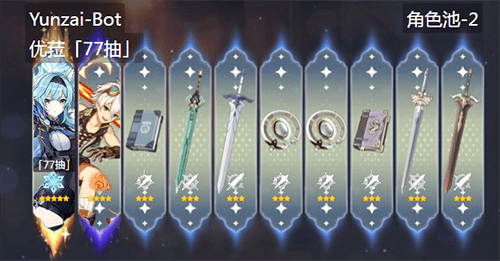
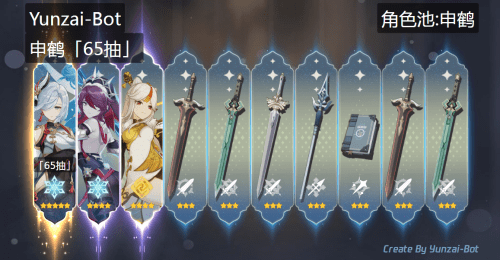
十连样式修改，更加真实

diff --git a/resources/genshin/gacha/gacha.css b/resources/genshin/gacha/gacha.css
@@ -1,5 +1,5 @@
 @font-face {
-  font-family: "tttgbnumber";
+  font-family: 'tttgbnumber';
   src: url("../../font/tttgbnumber.ttf");
   font-weight: normal;
   font-style: normal;
@@ -7,168 +7,131 @@
 * {
   margin: 0;
   padding: 0;
+  box-sizing: border-box;
+  user-select: none;
 }
 
 body {
-  position: absolute;
   transform: scale(0.9);
   transform-origin: 0 0;
-}
-
-.background {
   position: absolute;
 }
+
 .container {
   width: 1286px;
   height: 670px;
   background-image: url(./items/background.jpg);
   background-size: 100% 100%;
+  overflow: hidden;
 }
-.bg-info {
-  position: fixed;
-  top: 8px;
-  left: 65px;
+.info-bg{
+  background-color: rgba(5, 5, 5, 0.6);
   font-size: 46px;
   color: rgb(255, 255, 255);
-  z-index: 9999;
-  background-color: rgba(5, 5, 5, 0.6);
   padding: 8px 10px;
   border-radius: 5px;
-  max-width: 400px;
+
+}
+.info-name{
   overflow: hidden;
   white-space: nowrap;
   text-overflow: ellipsis;
+  max-width: 400px;
+  position: fixed;
+  top: 8px;
+  left: 65px;
+  z-index: 9999;
 }
-.bg-info-more {
+.info-count{
   position: fixed;
   top: 85px;
   left: 65px;
-  font-size: 46px;
-  color: rgb(255, 255, 255);
   z-index: 9999;
-  background-color: rgba(5, 5, 5, 0.6);
-  padding: 8px 10px;
-  border-radius: 5px;
 }
-.bg-upType {
+.poor-info{
   position: fixed;
   top: 8px;
   right: 55px;
-  font-size: 46px;
-  color: rgb(255, 255, 255);
   z-index: 9999;
-  background-color: rgba(5, 5, 5, 0.6);
-  padding: 8px 10px;
-  border-radius: 5px;
 }
-.gacha {
+.list-box{
   display: flex;
+  padding-top: 130px;
+  padding-left: 85px;
 }
-.gacha-box {
+.list-box .item{
   position: relative;
-  top: 24px;
 }
-
-.gacha-box:first-child {
-  margin-left: 80px;
-}
-
-.element .star-background {
-  position: relative;
+.list-box .item .item-bg-box{
   width: 112px;
-  z-index: 80;
+  height: 450px;
 }
-
-.element .star-image {
-  display: flex;
-  position: relative;
-  z-index: 1;
-  width: 82px;
-  left: 15px;
-  top: -175px;
-  z-index: 101;
-}
-
-.element .weapon-image {
+.list-box .item .item-bg{
   position: absolute;
-  width: 112px;
-  top: 150px;
-  z-index: 101;
-  filter: drop-shadow(4px 10px 0px #333);
-}
-.element .weapon-image-4 {
-  top: 48px;
-}
-.element .weapon-image-shadow {
-  position: relative;
-  width: 112px;
-  top: -553px;
-  left: 3px;
-  filter: brightness(0%);
-  opacity: 0.72;
+  width: 100%;
   z-index: 100;
 }
-
-.type-image {
+.list-box .item .item-shadow{
   position: absolute;
-  width: 65px;
-  left: 23px;
-  top: 435px;
-  z-index: 102;
+  width: 223px;
+  height: 794px;
+  top: -172px;
+  left: -57px;
+  z-index: 50;
 }
-
-.element .weapon-name {
+.list-box .item .item-shadow2{
   position: absolute;
-  color: rgb(242, 242, 242);
-  width: 112px;
-  top: 434px;
-  text-align: center;
-  font-size: 15px;
+  top: 7px;
+  left: 7px;
+  height: 436px;
+  z-index: 110;
+  width: 99px;
 }
-.element .character-image-box {
-  width: 105px;
-  height: 475px;
+.item-img-box{
   position: absolute;
-  top: 99px;
+  top: 1px;
   left: 3px;
+  width: 106px;
+  height: 448px;
   clip-path: url(#wishframe);
   z-index: 100;
-
 }
-.element .character-image {
+.item-character-img{
   height: 100%;
   position: absolute;
   left: -20%;
-  filter: drop-shadow(4px 10px 0px #333);
 }
-.character-image-border {
-  width: 107px;
-  height: 483px;
+.item-weapon-img{
   position: absolute;
-  top: 97px;
-  left: 3px;
-  z-index: 103;
+  width: 112px;
+  top: 55px;
+  z-index: 101;
+  filter: drop-shadow(3px 9px 0px #333);
 }
-.border-shadow {
-  filter: drop-shadow(0px 0px 4px rgb(255, 242, 221));
+.item-weapon-img-4{
+  top: 48px;
 }
-.element .box-shadow5{
-  width: 106px;
-  height: 471px;
+.item-element{
   position: absolute;
-  top: 100px;
-  border-radius: 100%;
-  z-index: 50;
-  box-shadow: 0 0 7px #fff, 0 0 10px #f9aa02, 0 0 21px #f9aa02, 0 0 35px #f97902;
+  width: 65px;
+  left: 23px;
+  top: 320px;
+  z-index: 120;
 }
-.element .box-shadow4{
-  width: 106px;
-  height: 471px;
+.item-star{
   position: absolute;
-  top: 100px;
-  border-radius: 100%;
-  z-index: 50;
-  box-shadow: 0 0 7px #fff, 0 0 10px #9178f6, 0 0 31px #9178f6, 0 0 45px #4e35d4;
+  width: 82px;
+  left: 16px;
+  top: 389px;
+  z-index: 120;
+}
+.logo{
+  position: absolute;
+  right: 55px;
+  bottom: 35px;
+  color: rgb(157 189 237 / 75%);
+  font-size: 24px;
+  font-family: 'tttgbnumber';
 }
 .times {
   position: absolute;
@@ -177,18 +140,9 @@ body {
   text-align: center;
   font-size: 26px;
   left: 2px;
-  top: 380px;
+  top: 275px;
   color: rgb(255, 255, 255);
   padding: 2px 0;
   background-color: rgba(5, 5, 5, 0.5);
   border-radius: 5px;
-}
-
-.logo {
-  position: absolute;
-  right: 30px;
-  bottom: 33px;
-  color: rgb(157 189 237 / 75%);
-  font-size: 24px;
-  font-family: "tttgbnumber";
 }

diff --git a/resources/genshin/gacha/gacha.html b/resources/genshin/gacha/gacha.html
@@ -7,37 +7,31 @@
   </head>
   <body>
     <div class="container" id="container">
-      <div class="background">
-        <div class="bg-info">{{name}}</div>
-        <div class="bg-info-more">{{info}}</div>
-        {{if poolName}}
-        <div class="bg-upType">{{poolName}}</div>
-        {{/if}}
-      </div>
-      <div class="gacha">
+      <div class="info-bg info-name">{{name}}</div>
+      <div class="info-bg info-count">{{info}}</div>
+      {{if poolName}}
+      <div class="info-bg poor-info">{{poolName}}</div>
+      {{/if}}
+      <div class="list-box">
         {{each list}}
-        <div class="gacha-box">
-          <div class="element">
-            <img class="star-background" src="../../../../resources/genshin/gacha/items/bg-{{$value.star}}.png" />
-            <img class="star-image" src="../../../../resources/genshin/gacha/items/s-{{$value.star}}.png" />
-            <div {{if $value.star>3}}class="character-image-box"{{/if}}>
+          <div class="item">
+            <div class="item-bg-box">
+              <img class="item-bg" src="../../../../resources/genshin/gacha/items/bg.png"/>
+            </div>
+            <img class="item-shadow" src="../../../../resources/genshin/gacha/items/shadow-{{$value.star}}.png"/>
+            <img class="item-shadow2" src="../../../../resources/genshin/gacha/items/bg2.png"/>
+            <div {{if $value.star>3}}class="item-img-box"{{/if}}>
               <img
-                class="{{$value.type}}-image {{if $value.star>3 && $value.type=='weapon'}}weapon-image-4{{/if}}"
+                class="item-{{$value.type}}-img {{if $value.star>3 && $value.type=='weapon'}}item-weapon-img-4{{/if}}"
                 src="../../../../resources/genshin/gacha/{{$value.type}}/{{$value.name}}.png"
               />
             </div>
-            <img class="type-image" src="../../../../resources/genshin/gacha/items/{{$value.element}}.png" />
-            <div class="box-shadow{{$value.star}}"></div>
-            <img
-              class="character-image-border {{if $value.star>3}}border-shadow{{/if}}"
-              src="../../../../resources/genshin/gacha/items/border-{{$value.star}}.svg"
-            />
-
             {{if $value.star==5}}
             <div class="times">「{{$value.num}}抽」</div>
             {{/if}}
+            <img class="item-element"  src="../../../../resources/genshin/gacha/items/{{$value.element}}.png"/>
+            <img class="item-star" src="../../../../resources/genshin/gacha/items/s-{{$value.star}}.png"/>
           </div>
-        </div>
         {{/each}}
       </div>
       <div class="logo">Create By Yunzai-Bot</div>

diff --git a/lib/init.js b/lib/init.js
@@ -5,10 +5,10 @@ const _path = process.cwd().trim("\\lib");
 const packageJson = JSON.parse(fs.readFileSync("package.json", "utf8"));
 
 async function init() {
-
-  Bot.logger.mark("----------");
-  Bot.logger.mark("初始化Yunzai-Bot");
-
+  if (typeof test != "undefined") {
+    Bot.logger.mark("----------");
+    Bot.logger.mark("初始化Yunzai-Bot");
+  }
   let redisUrl = "";
   if (BotConfig.redis.password) {
     redisUrl = `redis://:${BotConfig.redis.password}@${BotConfig.redis.host}:${BotConfig.redis.port}`;
@@ -68,10 +68,12 @@ async function init() {
   setTimeout(() => {
     YunzaiApps.gachaLog.logTask();
   }, 600000);
-  
-  Bot.logger.mark(`Yunzai-Bot 上线成功 版本v${packageJson.version}`);
-  Bot.logger.mark("https://github.com/Le-niao/Yunzai-Bot");
-  Bot.logger.mark("----------");
+
+  if (typeof test != "undefined") {
+    Bot.logger.mark(`Yunzai-Bot 上线成功 版本v${packageJson.version}`);
+    Bot.logger.mark("https://github.com/Le-niao/Yunzai-Bot");
+    Bot.logger.mark("----------");
+  }
 }
 
 Date.prototype.Format = function (fmt) {

diff --git a/lib/app/other.js b/lib/app/other.js
@@ -11,7 +11,7 @@ function help(e) {
 //复读机
 async function repeat(e) {
   let repeatRand = 70;
-  let repeatImgRand = 30; //打断复读概率
+  let repeatImgRand = 10; //打断复读概率
   let repeatNum = 5;
 
   if (!e.isGroup || e.hasReply) {

diff --git a/app.js b/app.js
@@ -10,6 +10,7 @@ await check();
 const Bot = createClient(BotConfig.account.qq, {
   log_level: BotConfig.account.log_level,
   platform: BotConfig.account.platform,
+  resend:false,
 });
 global.Bot = Bot;
 

diff --git a/README.md b/README.md
@@ -2,7 +2,7 @@
 云仔，原神qq群机器人，通过米游社接口，查询原神游戏信息，快速生成图片返回
 
 ## 使用方法
->环境准备： Windows or Linux，Node.js（[版本至少v14以上](http://nodejs.cn/download/)），Redis
+>环境准备： Windows or Linux，Node.js（[版本至少v14以上](http://nodejs.cn/download/)），[Redis](resources/readme/命令说明.md#window安装redis)
 >
 >[Linux环境一键搭建](https://github.com/Le-niao/Yunzai-Bot/issues/3)，Windows按下面的就行([需要安装redis](resources/readme/命令说明.md#window安装redis))
 ```
@@ -70,7 +70,7 @@ node app
 ## 致谢
 | Nickname                                                     | Contribution                        |
 | :----------------------------------------------------------: | ----------------------------------- |
-|[SilveryStar](https://github.com/SilveryStar/Adachi-BOT) | 部分抽卡素材来源 |
+|[GardenHamster](https://github.com/GardenHamster/GenshinPray) | 模拟抽卡背景素材来源 |
 |[lulu666lulu](https://github.com/lulu666lulu) | 提供了最新的DS算法 |
 
 ### 其他
